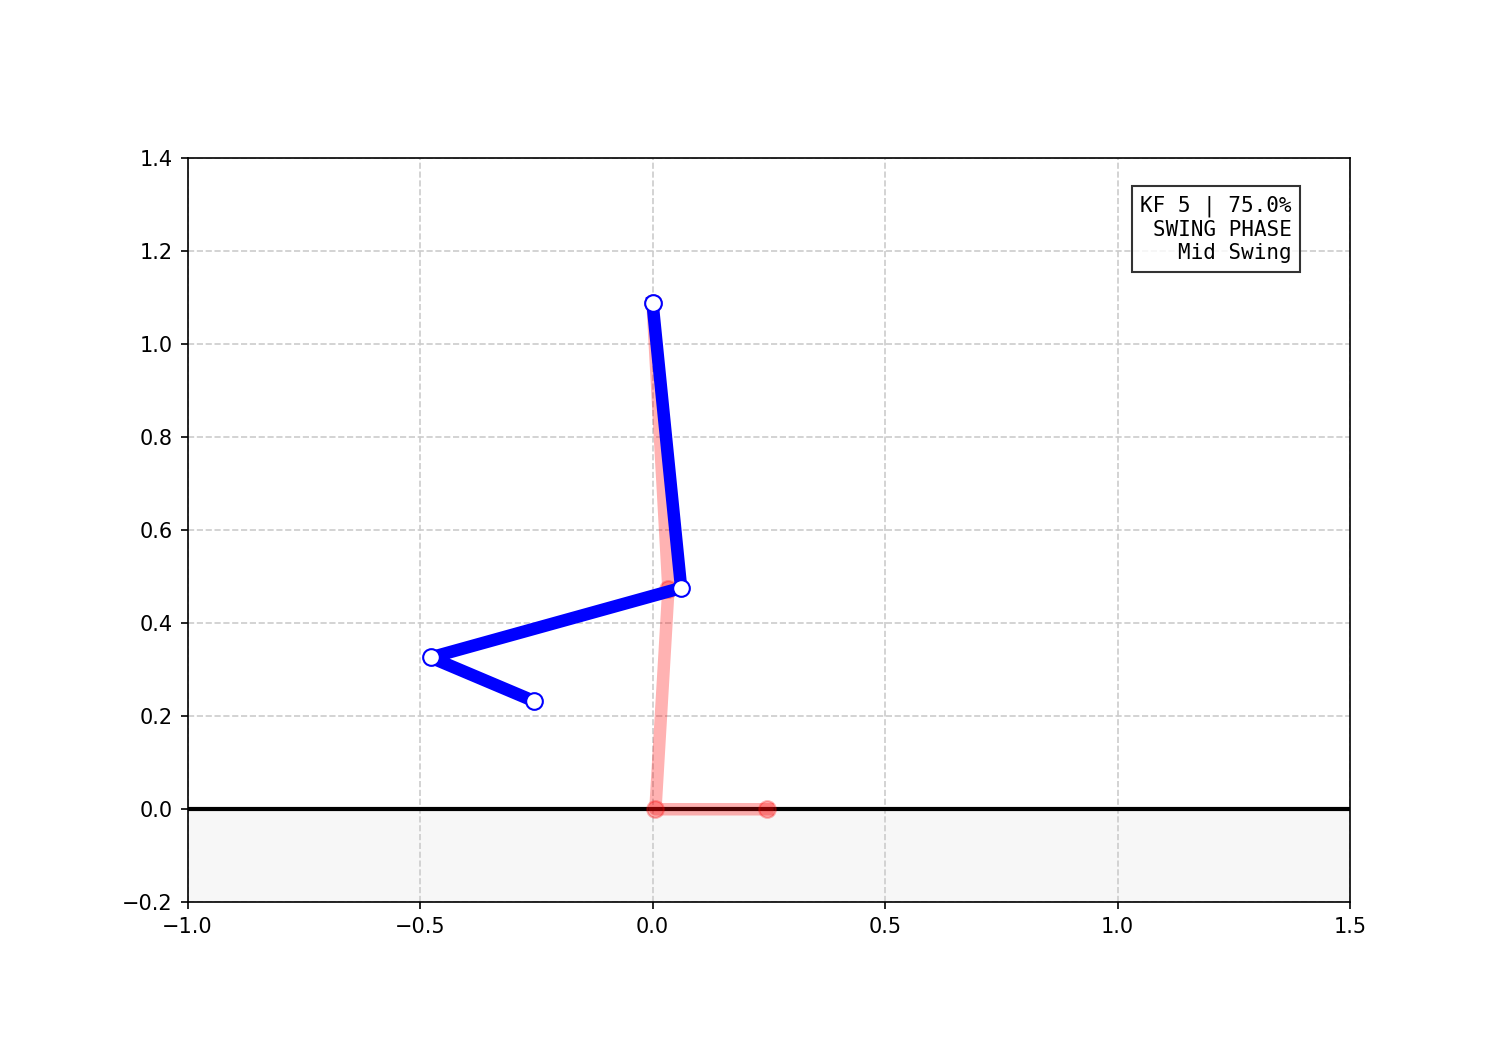
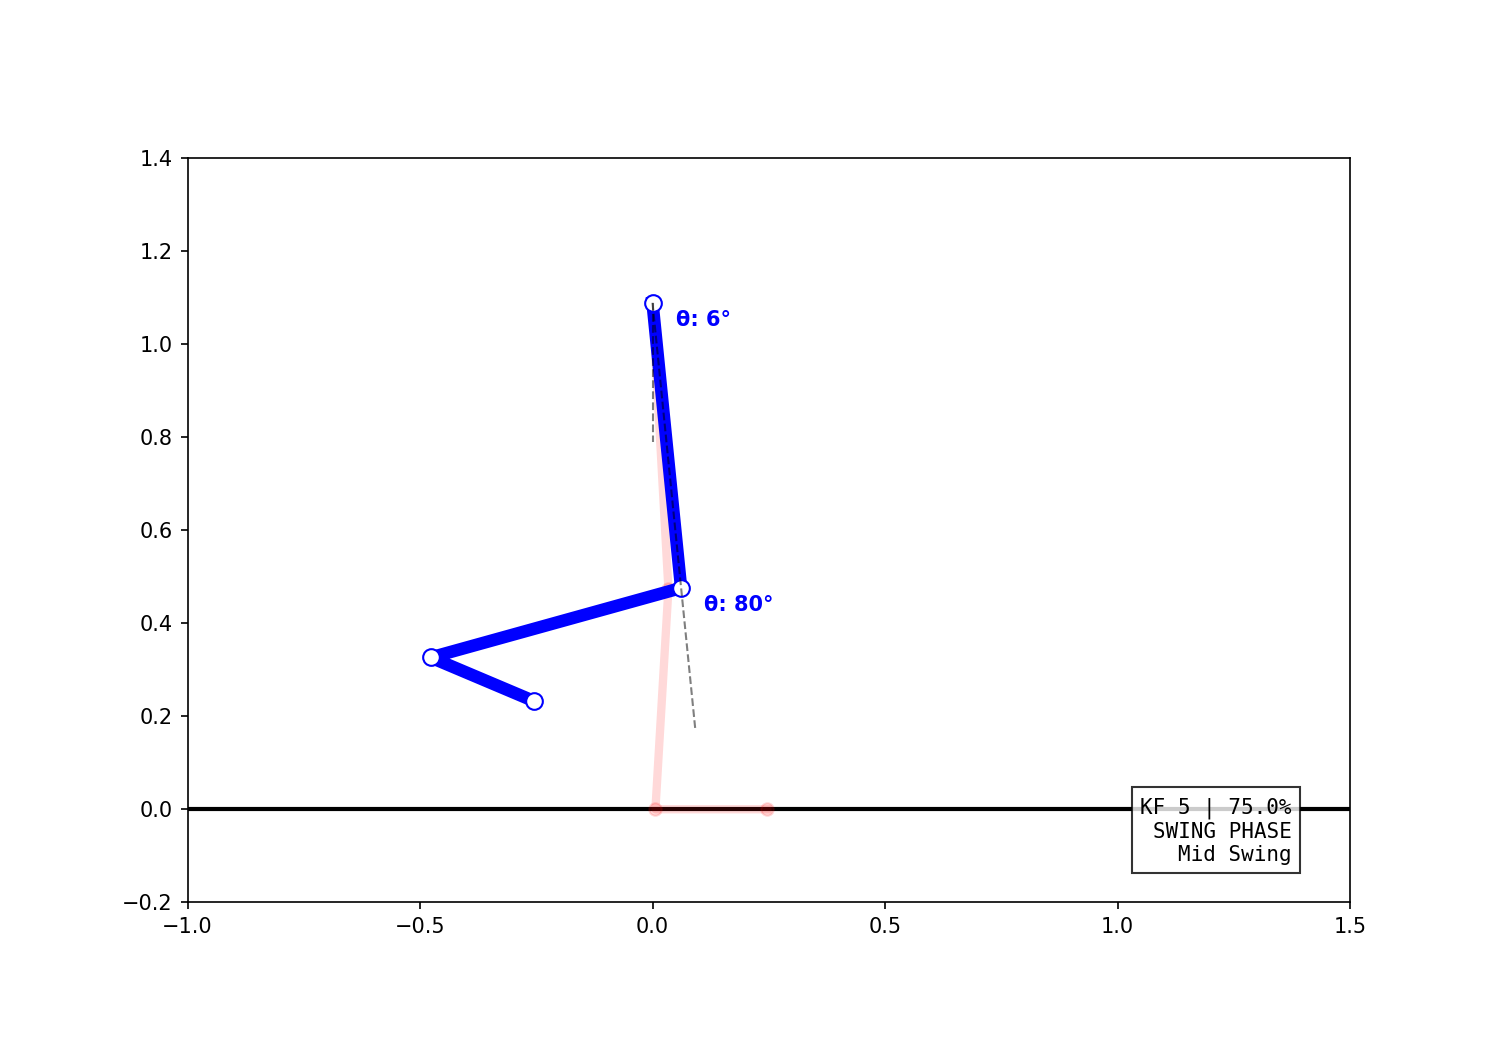
Updated Angles and Step

Changed region(s): [[0.4293, 0.2743, 0.5213, 0.7924], [0.736, 0.1829, 0.8587, 0.2743], [0.736, 0.7619, 0.8587, 0.8229]]

diff --git a/main.py b/main.py
@@ -1,24 +1,23 @@
+import os
 import numpy as np
 import matplotlib.pyplot as plt
 from matplotlib.animation import FuncAnimation
 import csv
-import os
 
-# ANTROPOMETRIC CONSTANTS
+# Modify these & keyframes to accurately model the gait cycle 
+# Anthropometric data is 50%tile of male from sample population
 THIGH, SHANK, FOOT = 0.6164, 0.5588, 0.241
 HIP_HEIGHT = 1.0892 
 
-# REFINED KEYFRAME DEFINITIONS
-# [Hip, Knee, Ankle, Target Phase (% of gait cycle)]
 keyframes = np.array([
-    [ 0.40, 0.00,  0.00, 0.00], # KF 0: HS
-    [ 0.20, 0.25, -0.10, 0.12], # KF 1: CTO
-    [ 0.00, 0.05,  0.00, 0.30], # KF 2: Mid Stance
-    [-0.25, 0.05,  0.00, 0.50], # KF 3: CHS 
-    [-0.30, 0.30, -0.40, 0.60], # KF 4: TO
-    [ 0.10, 1.40,  -0.40, 0.75], # KF 5: Initial Swing
-    [ 0.55, 0.80,  0.10, 0.88], # KF 6: Mid Swing 
-    [ 0.45, 0.10,  0.00, 1.00]  # KF 7: HS
+    [ 0.40, 0.00,  0.00, 0.00],
+    [ 0.20, 0.25, -0.10, 0.12],
+    [ 0.00, 0.05,  0.00, 0.30],
+    [-0.25, 0.05,  0.00, 0.50],
+    [-0.30, 0.30, -0.40, 0.60],
+    [ 0.10, 1.40,  -0.40, 0.75],
+    [ 0.55, 0.80,  0.40, 0.88],
+    [ 0.45, 0.10,  0.00, 1.00]
 ])
 
 def get_clinical_labels(phase):
@@ -53,6 +52,7 @@ def get_leg_coords(angles):
     toe = ankle + np.array([FOOT * np.cos(a_ang), FOOT * np.sin(a_ang)])
     return [hip[0], hip[1], knee[0], knee[1], ankle[0], max(0, ankle[1]), toe[0], max(0, toe[1])]
 
+# KEYFRAME SAVE FILES
 output_folder = "gait_keyframes"
 os.makedirs(output_folder, exist_ok=True)
 
@@ -61,51 +61,73 @@ for i, kf in enumerate(keyframes):
     ax_kf.set_aspect('equal')
     ax_kf.set_xlim(-1.0, 1.5)
     ax_kf.set_ylim(-0.2, 1.4)
-    ax_kf.grid(True, which='major', color='#CCCCCC', linestyle='--')
     ax_kf.axhline(0, color='black', lw=2)
-    ax_kf.fill_between([-1.5, 2], -0.2, 0, color='#f0f0f0', alpha=0.5)
-
+    
     phase = kf[3]
     main, sub = get_clinical_labels(phase)
-    r_pts = get_leg_coords(kf[:3])
-    l_pts = get_leg_coords(interpolate_pose((phase + 0.5) % 1.0))
+    rc = get_leg_coords(kf[:3])
+    lc = get_leg_coords(interpolate_pose((phase + 0.5) % 1.0))
+    degs = np.degrees(kf[:3])
 
-    ax_kf.plot(l_pts[0::2], l_pts[1::2], 'o-', lw=6, ms=8, color='red', alpha=0.3)
-    ax_kf.plot(r_pts[0::2], r_pts[1::2], 'o-', lw=6, ms=8, color='blue', mfc='white')
+    # Plot legs
+    ax_kf.plot(lc[0::2], lc[1::2], 'o-', lw=4, ms=6, color='red', alpha=0.15)
+    ax_kf.plot(rc[0::2], rc[1::2], 'o-', lw=6, ms=8, color='blue', mfc='white')
+    
+    # Dotted Refs
+    ax_kf.plot([rc[0], rc[0]], [rc[1], rc[1]-0.3], 'k--', lw=1, alpha=0.5)
+    ax_kf.plot([rc[0], rc[2], rc[2] + (rc[2]-rc[0])*0.5], [rc[1], rc[3], rc[3] + (rc[3]-rc[1])*0.5], 'k--', lw=1, alpha=0.5)
+    
+    # Angle Labels
+    ax_kf.text(rc[0]+0.05, rc[1]-0.05, f"θ: {degs[0]:.0f}°", color='blue', fontweight='bold')
+    ax_kf.text(rc[2]+0.05, rc[3]-0.05, f"θ: {degs[1]:.0f}°", color='blue', fontweight='bold')
     
     label = f"KF {i} | {phase*100:.1f}%\n{main}\n{sub}"
-    ax_kf.text(0.95, 0.95, label, transform=ax_kf.transAxes, family='monospace', va='top', ha='right', bbox=dict(facecolor='white', alpha=0.8))
+    ax_kf.text(0.95, 0.05, label, transform=ax_kf.transAxes, family='monospace', va='bottom', ha='right', bbox=dict(facecolor='white', alpha=0.8))
     
     plt.savefig(os.path.join(output_folder, f"keyframe_{i}.png"), dpi=150)
     plt.close(fig_kf)
 
+# SIMULATION
 frames_per_cycle = 100
 all_data = []
-with open('gait_regeneration_data.csv', mode='w', newline='') as file:
-    writer = csv.writer(file)
-    writer.writerow(['frame', 'phase', 'main_phase', 'sub_phase', 'hx', 'hy', 'kx', 'ky', 'ax', 'ay', 'tx', 'ty'])
-    for f in range(frames_per_cycle):
-        phase = f / frames_per_cycle
-        main, sub = get_clinical_labels(phase)
-        coords = get_leg_coords(interpolate_pose(phase))
-        writer.writerow([f, round(phase, 3), main, sub] + [round(c, 4) for c in coords])
-        all_data.append({'coords': coords, 'main': main, 'sub': sub})
+for f in range(frames_per_cycle):
+    phase = f / frames_per_cycle
+    angles = interpolate_pose(phase)
+    coords = get_leg_coords(angles)
+    main, sub = get_clinical_labels(phase)
+    all_data.append({'coords': coords, 'angles': angles, 'main': main, 'sub': sub})
 
 fig, ax = plt.subplots(figsize=(12, 8))
 ax.set_aspect('equal')
 ax.set_xlim(-1.0, 1.5)
 ax.set_ylim(-0.2, 1.4)
 ax.axhline(0, color='black', lw=2)
-line_r, = ax.plot([], [], 'o-', lw=6, ms=8, color='blue', mfc='white')
-line_l, = ax.plot([], [], 'o-', lw=6, ms=8, color='red', alpha=0.3)
-info_text = ax.text(0.95, 0.95, '', transform=ax.transAxes, family='monospace', va='top', ha='right')
+
+line_l, = ax.plot([], [], 'o-', lw=4, ms=6, color='red', alpha=0.2)
+line_r, = ax.plot([], [], 'o-', lw=6, ms=8, color='blue', mfc='white', zorder=10)
+ref_hip, = ax.plot([], [], 'k--', lw=1, alpha=0.5)
+ref_knee, = ax.plot([], [], 'k--', lw=1, alpha=0.5)
+txt_hip = ax.text(0, 0, '', color='blue', fontweight='bold')
+txt_knee = ax.text(0, 0, '', color='blue', fontweight='bold')
+info_text = ax.text(0.95, 0.95, '', transform=ax.transAxes, family='monospace', va='top', ha='right', bbox=dict(facecolor='white', alpha=0.7))
 
 def update(frame):
     r, l = all_data[frame], all_data[(frame + 50) % 100]
-    line_r.set_data(r['coords'][0::2], r['coords'][1::2])
+    rc = r['coords']
+    line_r.set_data(rc[0::2], rc[1::2])
     line_l.set_data(l['coords'][0::2], l['coords'][1::2])
-    info_text.set_text(f"{r['main']}\n{r['sub']}\nPHASE: {(frame/100)*100:4.1f}%")
-    return line_r, line_l, info_text
+    
+    ref_hip.set_data([rc[0], rc[0]], [rc[1], rc[1]-0.3])
+    ref_knee.set_data([rc[0], rc[2], rc[2] + (rc[2]-rc[0])*0.5], [rc[1], rc[3], rc[3] + (rc[3]-rc[1])*0.5])
 
-ani = FuncAnimation(fig, update, frames=frames_per_cycle, interval=5, blit=False)
+    degs = np.degrees(r['angles'])
+    txt_hip.set_position((rc[0]+0.05, rc[1]-0.05))
+    txt_hip.set_text(f"θ: {degs[0]:.0f}°")
+    txt_knee.set_position((rc[2]+0.05, rc[3]-0.05))
+    txt_knee.set_text(f"θ: {degs[1]:.0f}°")
+
+    info_text.set_text(f"{r['main']}\n{r['sub']}\nPHASE: {(frame/100)*100:4.1f}%")
+    return line_r, line_l, ref_hip, ref_knee, txt_hip, txt_knee, info_text
+
+ani = FuncAnimation(fig, update, frames=frames_per_cycle, interval=25, blit=False) # Modify interval to change speed of animation
 plt.show()
